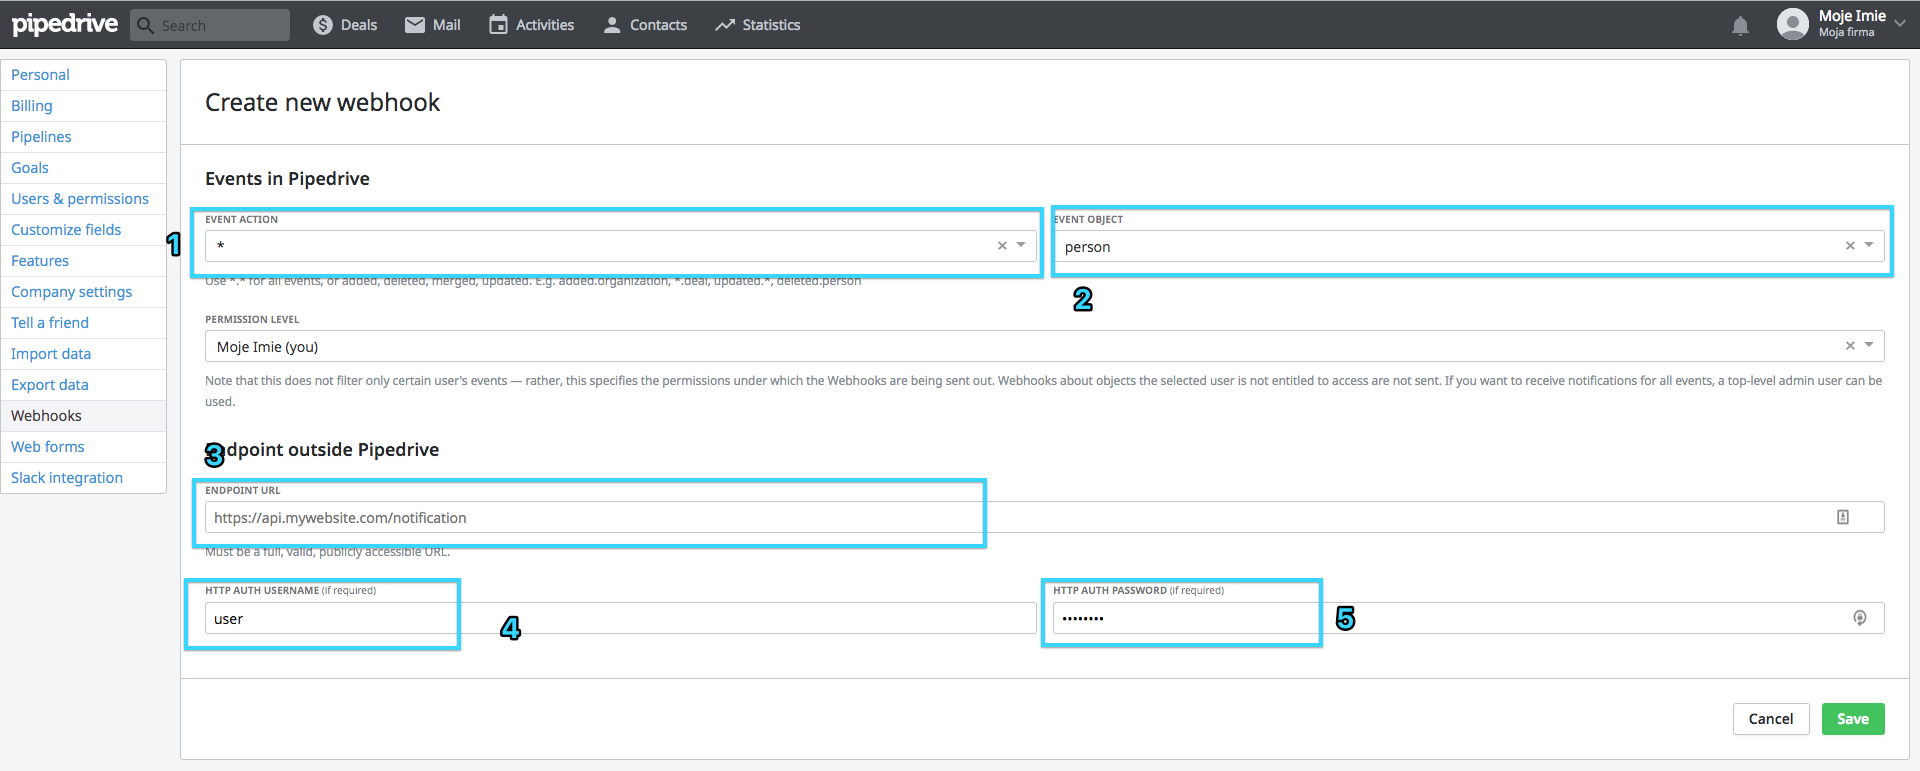
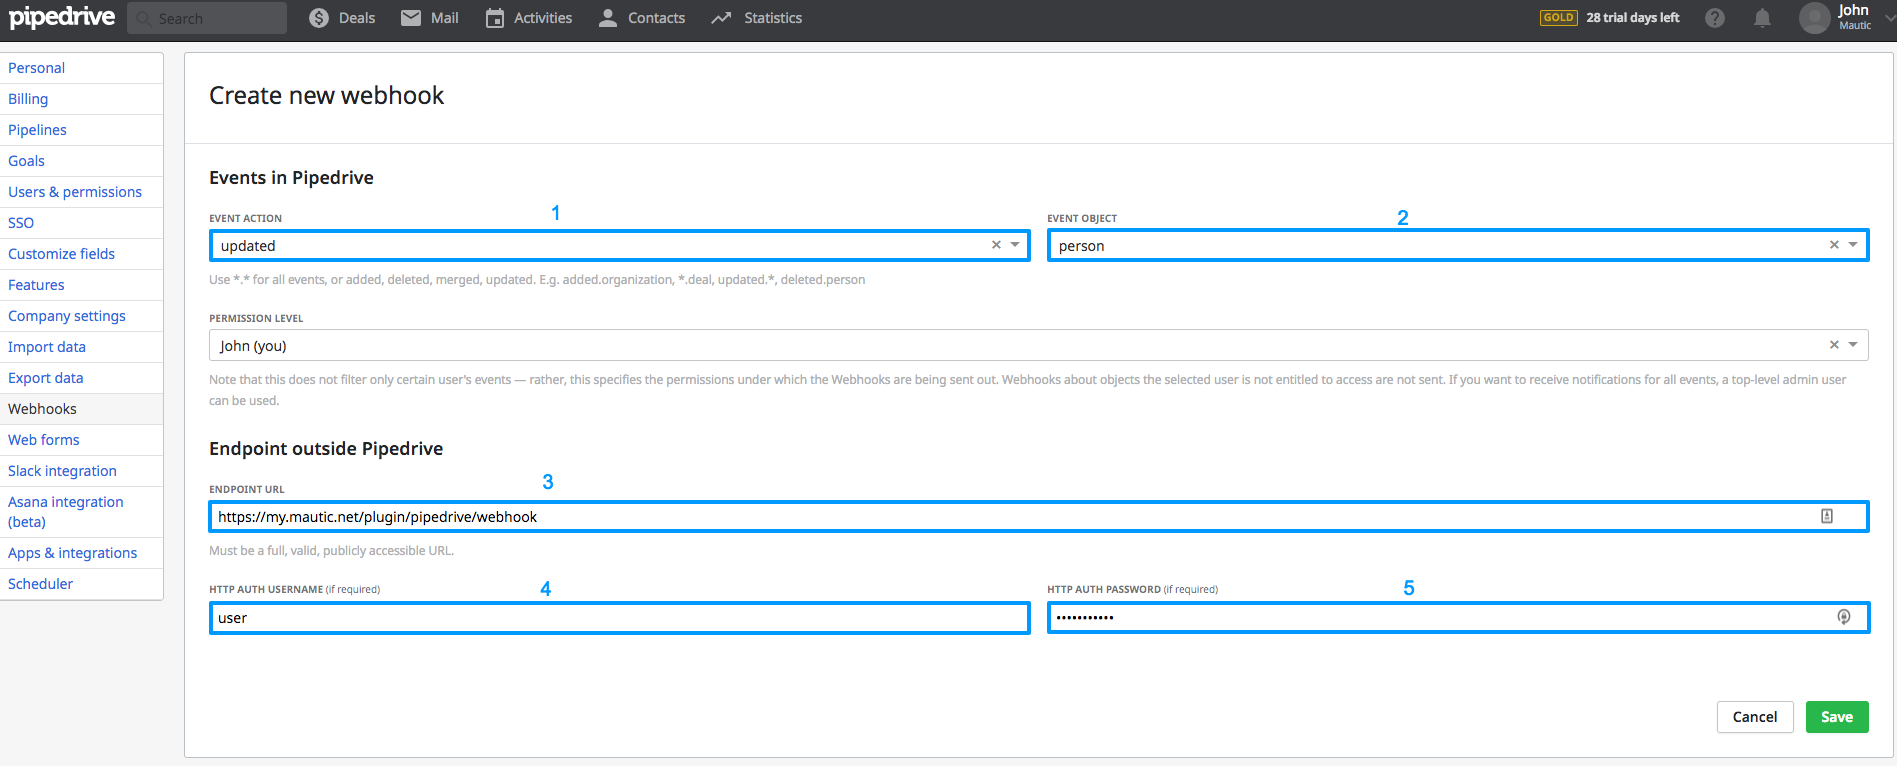
Update Pipedrive webhooks docs to avoid duplication

diff --git a/en/plugins/pipedrive.md b/en/plugins/pipedrive.md
@@ -60,9 +60,9 @@ You have to create webhooks for Person, User and optionally for Organization.
 
 ![Configure Pipedrive webhooks](media/pipedrive/webhooks_2.png "Configure Pipedrive webhooks")
 
-1. Select “\*” to send to Mautic all events for the given object
+1. Select `updated` to send to Mautic updated events for the given object. Do not select `*` as Pipedrive will send the `updated` events on create event too. If you select `*` the contacts/companies/users will be duplicated.
 2. Choose which object you want to synchronize (Person, Organization, User)
-3. Enter your Mautic URL address (you can find it on the configuration page)
+3. Enter your Mautic URL address (you can find it on the Pipedrive plugin configuration page)
 4. Enter the webhook user that you used for plugin configuration
 5. Enter the webhook password that you used for plugin configuration
 
